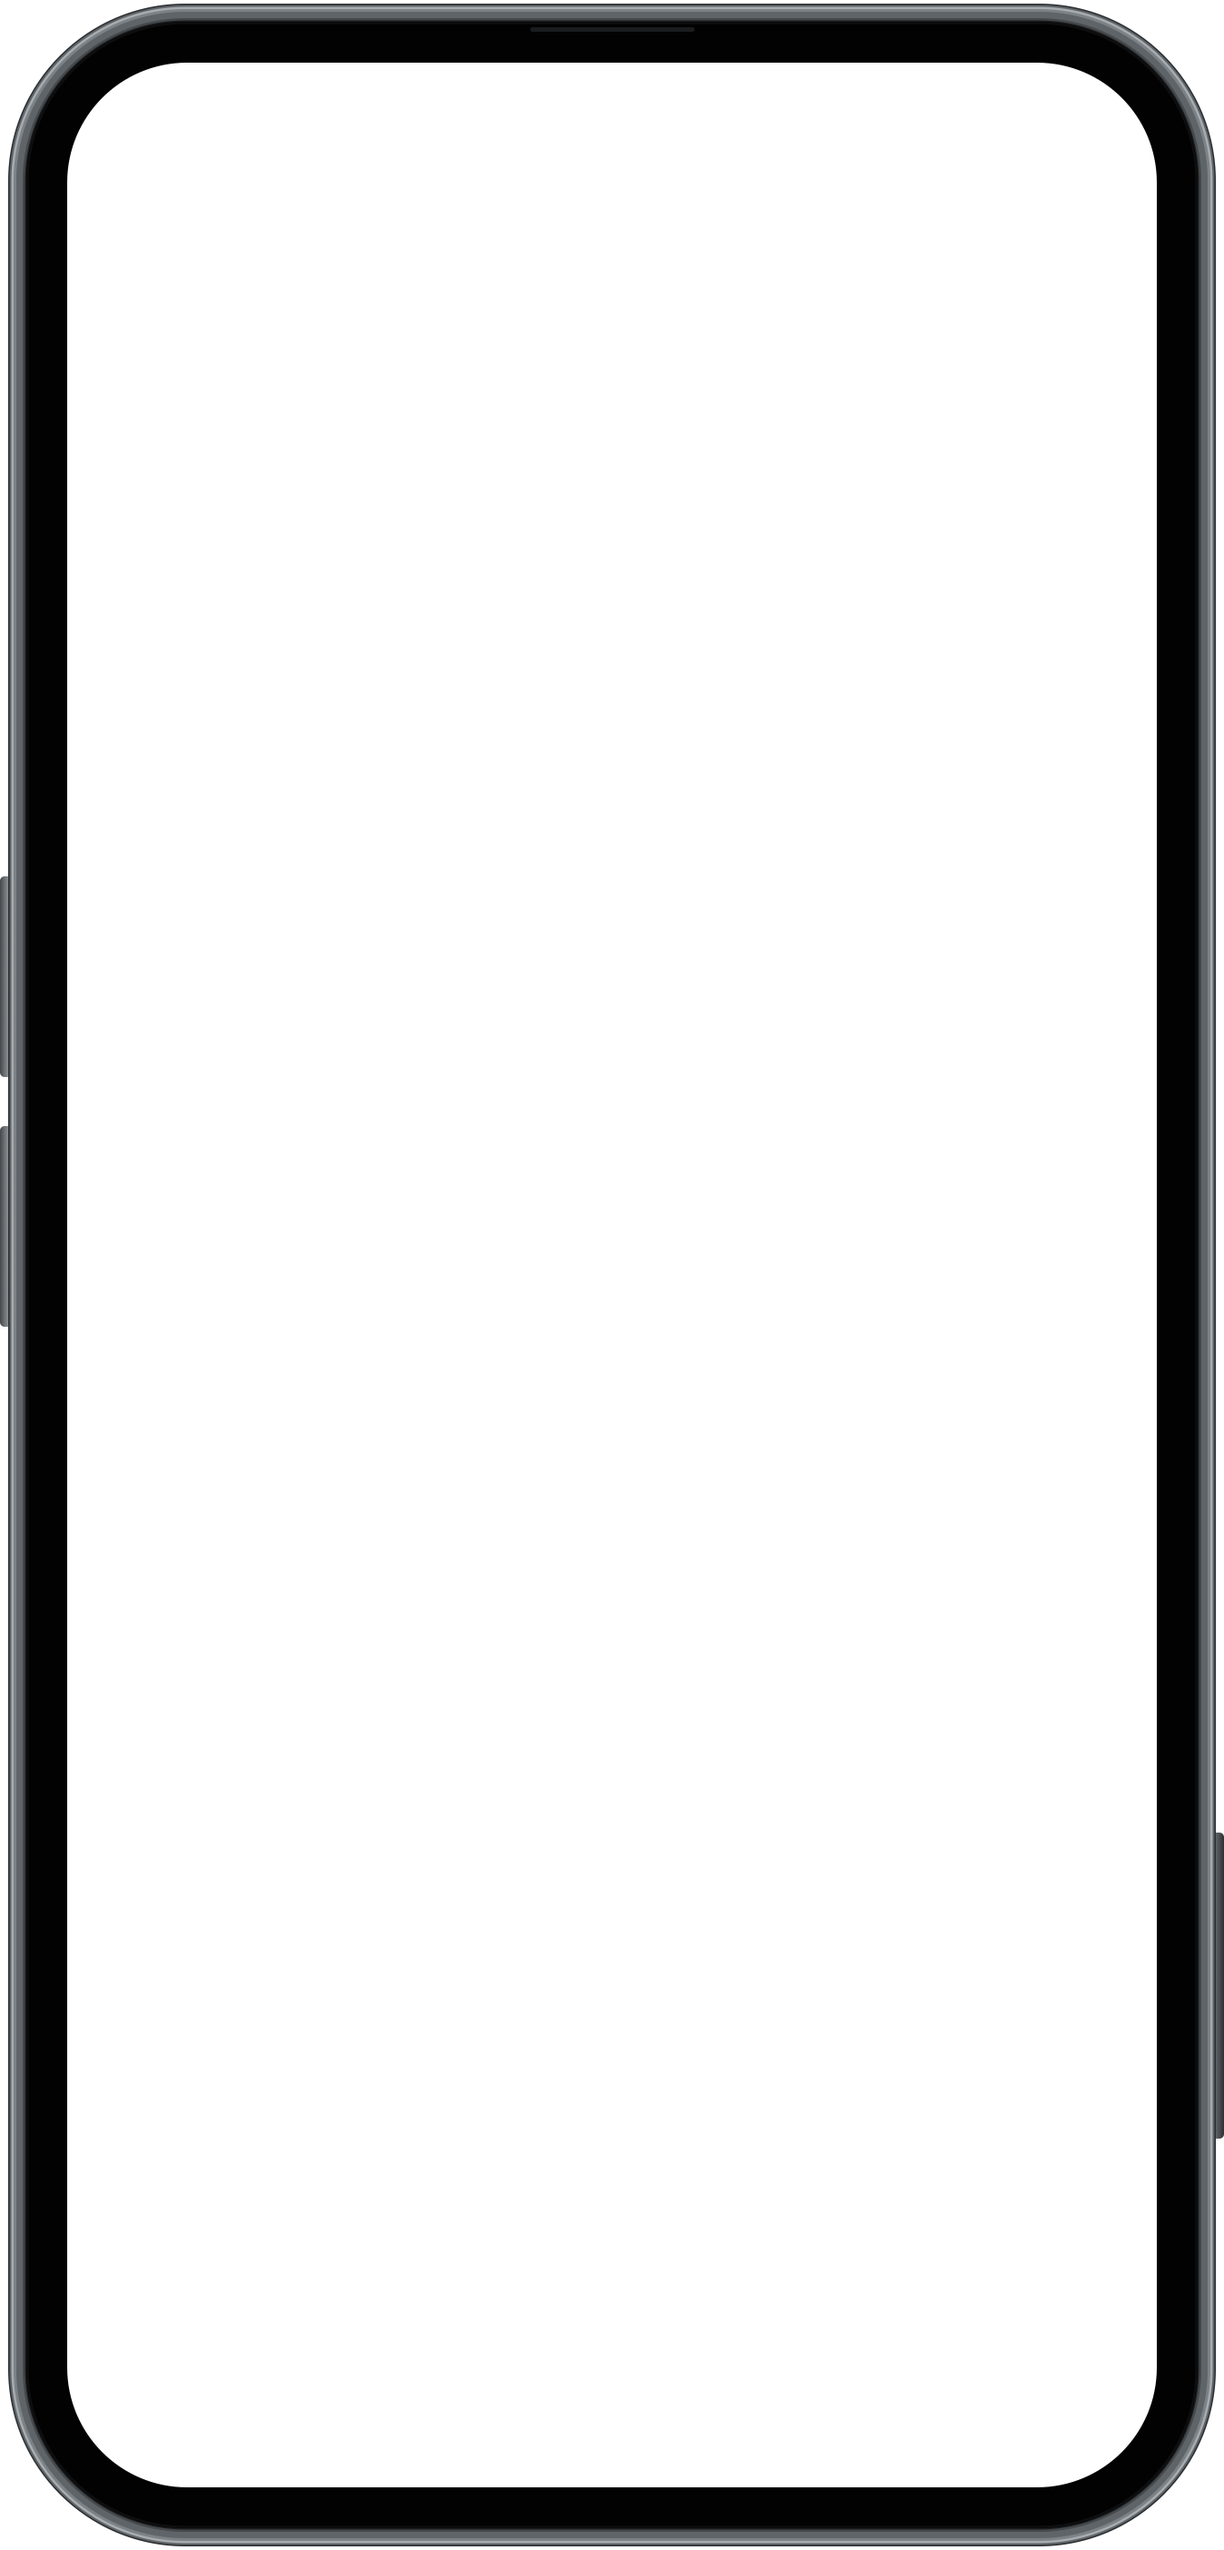
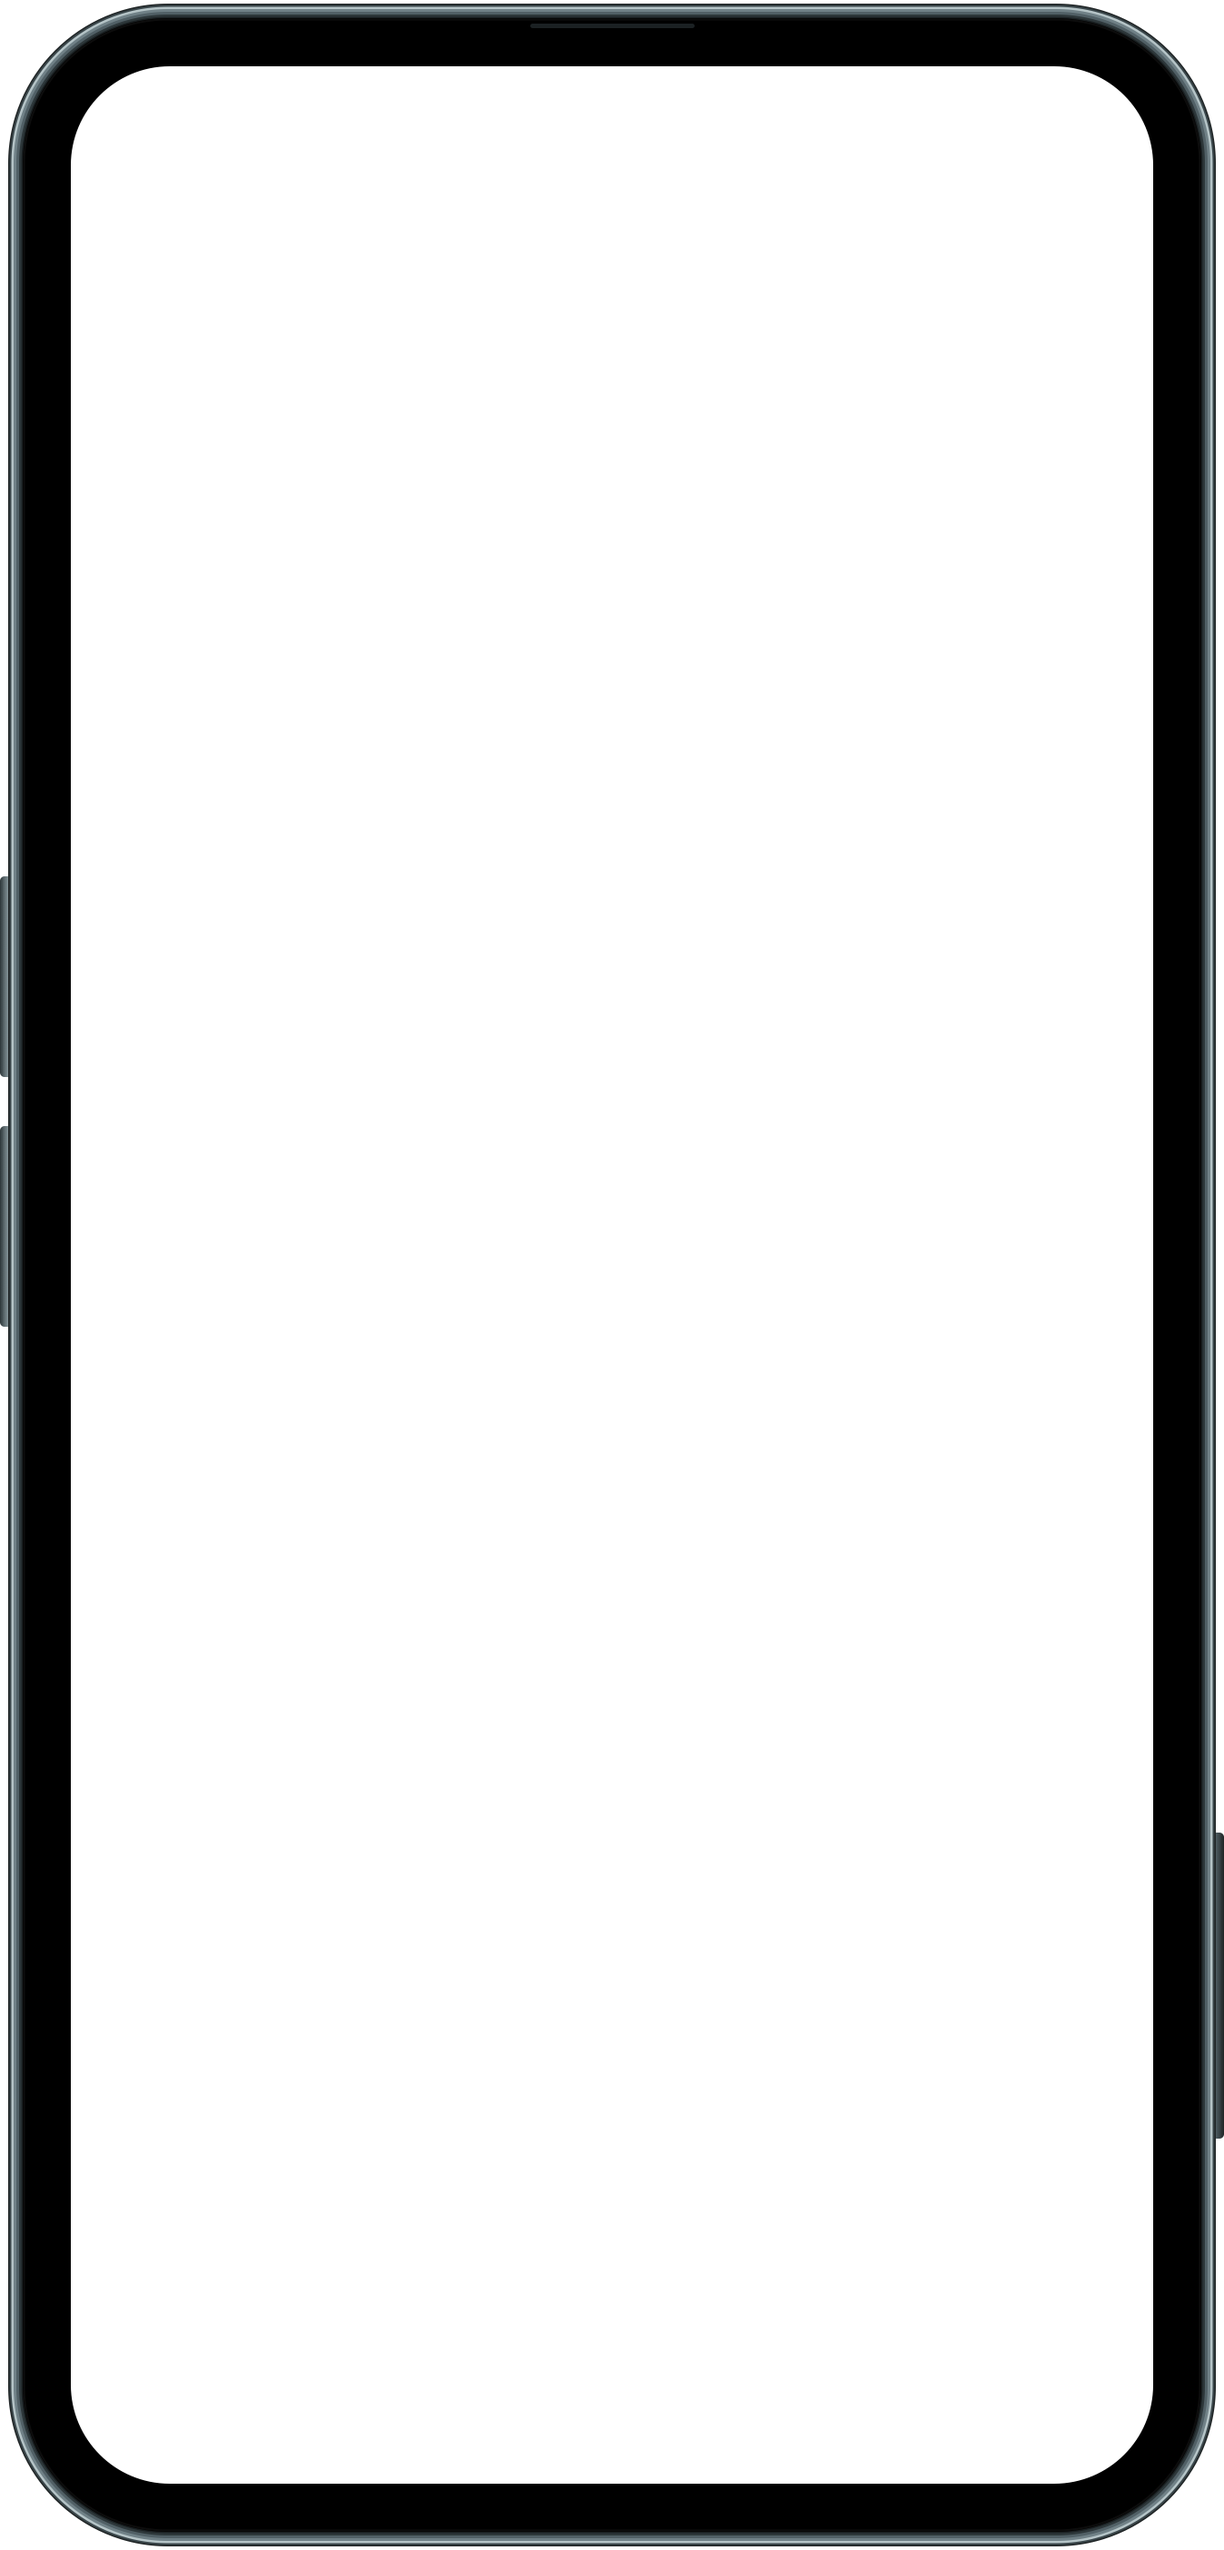
Skin: fix square corners over the rounded screen, real Seeker colors
The emulator draws the display rectangle over the frame, so the rounded
metal corners got black square notches in every app (status bar looked off).
- mask.png repaints the phone body in its corners (shared drawing code)
- pure black glass that runs under the display edge
- corner radius 9.7 mm so frame and display layers only meet black-on-black
  (the emulator scales the two layers differently; window.scale is ignored)
- frame colors sampled from the official renders (cool slate metal)
- make-preview.swift draws layers in the emulator's order
- docs 11, decision D20, log

Changed region(s): [[0.0, 0.0, 0.997, 1.0]]

diff --git a/profiles/seeker/skin/make-skin.swift b/profiles/seeker/skin/make-skin.swift
@@ -4,7 +4,7 @@
 //
 // Measurements (see docs/11-seeker-look.md):
 //   body 73.5 x 154.8 mm (official spec), display 1200x2670 @ 460 ppi = 66.3 x 147.4 mm
-//   corner radius ~10.8 mm, metal band ~1.1 mm + black bezel ~2.5 mm per side, buttons stick out ~0.5 mm
+//   corner radius 9.7 mm (render ~10.8, see below), metal band ~0.9 mm + black bezel ~2.7 mm per side, buttons stick out ~0.5 mm
 //   shading is symmetric so every side looks identical (no directional light)
 //   left side: two volume keys at 53.1-65.3 mm and 68.3-80.5 mm from the top
 //   right side: power / Seed Vault fingerprint key at 111.3-129.9 mm from the top
@@ -27,8 +27,13 @@ let W = bodyW + 2 * buttonOut, H = bodyH + 2 * padY
 let body = CGRect(x: buttonOut, y: padY, width: bodyW, height: bodyH)
 let screenX = body.minX + ((bodyW - screenW) / 2).rounded()
 let screenY = body.minY + ((bodyH - screenH) / 2).rounded()
-let bodyRadius = mm(10.8)
-let rim = mm(1.1)                               // visible metal band (front view)
+// Corner radius: the official render measures ~10.8 mm, but at that radius the metal reaches inside the
+// display's bounding rectangle. The emulator scales the display layer and the frame layer by slightly
+// different factors, so metal drawn there can never line up and leaves a 1-2 px step. With 9.7 mm and a
+// 0.9 mm metal band, the glass curve clears the display corner by 3 px and the layers only ever meet
+// black-on-black. Constraint: (R - border) * sqrt(2) <= R - rim - 3.
+let bodyRadius = mm(9.7)
+let rim = mm(0.9)                               // visible metal band (front view)
 let screenRadius = bodyRadius - (screenX - body.minX) + 2   // concentric with the body corner
 let cameraCenterY = mm(3.7)                                  // in screen coordinates
 let cameraR = mm(1.35)
@@ -59,59 +64,74 @@ func save(_ ctx: CGContext, _ name: String) {
     print("wrote \(url.path)")
 }
 
-// ---- back.png --------------------------------------------------------------------------------
-let back = context(W, H)
+// ---- the phone body (frame, keys, glass), drawn into any context ---------------------------------
+// Used twice: for back.png (behind the display) and for mask.png (on top of the display corners).
+// The Seeker's corners are so round that the metal reaches *inside* the display rectangle; the
+// emulator draws the display rectangle over back.png, so the mask has to repaint the frame there,
+// otherwise the corners show a black square notch.
 
-// Side keys (drawn first; the body covers their inner half). Metal like the frame.
-func key(_ x: CGFloat, _ fromMm: CGFloat, _ toMm: CGFloat, _ fill: CGGradient) {
-    let r = CGRect(x: x, y: body.minY + mm(fromMm), width: buttonOut + 10, height: mm(toMm) - mm(fromMm))
-    back.saveGState()
-    back.addPath(rr(r, 5)); back.clip()
-    back.drawLinearGradient(fill, start: CGPoint(x: r.minX, y: 0), end: CGPoint(x: r.maxX, y: 0), options: [])
-    back.restoreGState()
-}
-let metalKey = gradient([(0x45494C, 0), (0x8F9498, 0.5), (0x45494C, 1)])
-let vaultKey = gradient([(0x2E3134, 0), (0x62676B, 0.5), (0x2E3134, 1)])   // power / Seed Vault fingerprint key
-key(0, 53.1, 65.3, metalKey)                 // volume up (left)
-key(0, 68.3, 80.5, metalKey)                 // volume down (left)
-key(W - buttonOut - 10, 111.3, 129.9, vaultKey)   // power + fingerprint (right)
+let metalKey = gradient([(0x2D373A, 0), (0x8A9A9F, 0.5), (0x2D373A, 1)])
+let vaultKey = gradient([(0x1F2425, 0), (0x516066, 0.5), (0x1F2425, 1)])   // power / Seed Vault fingerprint key
 
 // Metal frame, shaded identically on every side: concentric bands from the outer edge inward
-// (dark outer lip -> bright polished chamfer -> brushed gray -> dark inner lip), so no side looks thicker.
+// (dark outer lip -> bright polished chamfer -> brushed -> dark inner lip), so no side looks thicker.
+// Colors sampled from Solana Mobile's official renders (median / percentiles of frame-edge and body
+// pixels): the Seeker's metal is a cool slate with a slight teal tint, not neutral gray.
 let bands: [(inset: CGFloat, hex: UInt32)] = [
-    (0, 0x2B2E31),            // outer lip
-    (1.5, 0x5E6367),
-    (3.5, 0xA7ACB0),          // polished chamfer highlight
-    (6, 0x7D8286),
-    (9, 0x5F6468),            // brushed band
-    (rim - 4, 0x45494C),
-    (rim - 1.5, 0x1A1C1E),    // inner lip against the glass
+    (0, 0x1F2425),            // outer lip (edge p25)
+    (1.5, 0x3A464A),
+    (3.5, 0xB5C4C7),          // polished chamfer highlight (edge p95)
+    (6, 0x708187),            // (body p90)
+    (9, 0x516066),            // brushed band (edge p75)
+    (rim - 4, 0x2D373A),      // (edge median)
+    (rim - 1.5, 0x1B2123),    // inner lip against the glass (body p10)
 ]
-for band in bands {
-    back.setFillColor(color(band.hex))
-    back.addPath(rr(body.insetBy(dx: band.inset, dy: band.inset), bodyRadius - band.inset)); back.fillPath()
+let glass = body.insetBy(dx: rim, dy: rim)
+
+func drawBody(_ g: CGContext) {
+    // Side keys first; the body covers their inner half.
+    func key(_ x: CGFloat, _ fromMm: CGFloat, _ toMm: CGFloat, _ fill: CGGradient) {
+        let r = CGRect(x: x, y: body.minY + mm(fromMm), width: buttonOut + 10, height: mm(toMm) - mm(fromMm))
+        g.saveGState()
+        g.addPath(rr(r, 5)); g.clip()
+        g.drawLinearGradient(fill, start: CGPoint(x: r.minX, y: 0), end: CGPoint(x: r.maxX, y: 0), options: [])
+        g.restoreGState()
+    }
+    key(0, 53.1, 65.3, metalKey)                       // volume up (left)
+    key(0, 68.3, 80.5, metalKey)                       // volume down (left)
+    key(W - buttonOut - 10, 111.3, 129.9, vaultKey)    // power + fingerprint (right)
+
+    for band in bands {
+        g.setFillColor(color(band.hex))
+        g.addPath(rr(body.insetBy(dx: band.inset, dy: band.inset), bodyRadius - band.inset)); g.fillPath()
+    }
+    // Black glass. Pure black, the same as the mask's black.
+    g.setFillColor(color(0x000000))
+    g.addPath(rr(glass, bodyRadius - rim)); g.fillPath()
+    // Faint, even glass-edge reflection.
+    g.setStrokeColor(color(0xFFFFFF, 0.05)); g.setLineWidth(2)
+    g.addPath(rr(glass.insetBy(dx: 1.5, dy: 1.5), bodyRadius - rim - 1.5)); g.strokePath()
+    // Earpiece slit in the top bezel.
+    g.setFillColor(color(0x1B2123))
+    g.addPath(rr(CGRect(x: W / 2 - mm(5), y: body.minY + rim + 6, width: mm(10), height: 5), 2.5)); g.fillPath()
 }
 
-// Black glass (front), flat to the rim.
-let glass = body.insetBy(dx: rim, dy: rim)
-back.setFillColor(color(0x020203))
-back.addPath(rr(glass, bodyRadius - rim)); back.fillPath()
-// Faint, even glass-edge reflection.
-back.setStrokeColor(color(0xFFFFFF, 0.05)); back.setLineWidth(2)
-back.addPath(rr(glass.insetBy(dx: 1.5, dy: 1.5), bodyRadius - rim - 1.5)); back.strokePath()
-
-// Earpiece slit in the top bezel.
-back.setFillColor(color(0x1A1C1E))
-back.addPath(rr(CGRect(x: W / 2 - mm(5), y: body.minY + rim + 6, width: mm(10), height: 5), 2.5)); back.fillPath()
-
-// Transparent display area.
+// ---- back.png --------------------------------------------------------------------------------
+let back = context(W, H)
+drawBody(back)
+// Transparent display area, inset so the glass runs a few px *under* the display edge: when the
+// emulator scales the window it smooths the display's border pixels, which must blend black-on-black.
+let underlap: CGFloat = 4
 back.setBlendMode(.clear)
-back.addPath(rr(CGRect(x: screenX, y: screenY, width: screenW, height: screenH), screenRadius)); back.fillPath()
+back.addPath(rr(CGRect(x: screenX, y: screenY, width: screenW, height: screenH).insetBy(dx: underlap, dy: underlap), screenRadius - underlap)); back.fillPath()
 save(back, "back.png")
 
-// ---- mask.png: display-sized; opaque = covers the display (corners, camera) -------------------
+// ---- mask.png: display-sized, drawn over the display. Opaque = the phone (frame + glass) shows. ---
 let mask = context(screenW, screenH)
-mask.setFillColor(color(0x000000)); mask.fill(CGRect(x: 0, y: 0, width: screenW, height: screenH))
+mask.saveGState()
+mask.translateBy(x: -screenX, y: -screenY)   // same coordinates as back.png
+drawBody(mask)
+mask.restoreGState()
 mask.setBlendMode(.clear)
 mask.addPath(rr(CGRect(x: 0, y: 0, width: screenW, height: screenH), screenRadius)); mask.fillPath()
 mask.setBlendMode(.normal)

diff --git a/profiles/seeker/skin/make-preview.swift b/profiles/seeker/skin/make-preview.swift
@@ -18,9 +18,10 @@ let ctx = CGContext(data: nil, width: W, height: H, bitsPerComponent: 8, bytesPe
                     space: CGColorSpace(name: CGColorSpace.sRGB)!, bitmapInfo: CGImageAlphaInfo.premultipliedLast.rawValue)!
 let sw = CGFloat(screen.width), sh = CGFloat(screen.height)
 let screenRect = CGRect(x: dx, y: CGFloat(H) - dy - sh, width: sw, height: sh) // CG origin bottom-left
+// Same order as the emulator: background (back.png), then the display, then the foreground mask.
+ctx.draw(back, in: CGRect(x: 0, y: 0, width: W, height: H))
 ctx.draw(screen, in: screenRect)
 ctx.draw(mask, in: screenRect)
-ctx.draw(back, in: CGRect(x: 0, y: 0, width: W, height: H))
 let dest = CGImageDestinationCreateWithURL(out as CFURL, UTType.png.identifier as CFString, 1, nil)!
 CGImageDestinationAddImage(dest, ctx.makeImage()!, nil)
 CGImageDestinationFinalize(dest)

diff --git a/docs/11-seeker-look.md b/docs/11-seeker-look.md
@@ -18,22 +18,30 @@ Files: [profiles/seeker/skin/](../profiles/seeker/skin/)
 |---|---|---|
 | Body | 73.5 × 154.8 × 9.3 mm | official spec, solanamobile.com/seeker |
 | Display | 1200 × 2670 @ 460 ppi = 66.3 × 147.4 mm | official spec |
-| Corner radius | ~10.8 mm | measured from Solana Mobile's official front render (pixel scan) |
+| Corner radius | 9.7 mm in the skin (the render measures ~10.8 mm, see "Square corners bug") | official front render (pixel scan) |
 | Volume keys | **left** side, 53.1–65.3 mm and 68.3–80.5 mm from the top | measured from the official front render |
 | Power / **Seed Vault fingerprint key** | **right** side, 111.3–129.9 mm from the top | official render (front) + back render (key next to the "Seed Vault" panel) |
 | Front camera | small **centered punch hole** near the top | hands-on review photo (Decrypt) |
-| Frame | gray metal, thin even black bezels | official renders + review photo |
+| Frame colors | cool slate metal: `#1F2425` lip, `#B5C4C7` chamfer highlight, `#516066` brushed, `#2D373A` mid, `#1B2123` inner lip | percentiles of frame/body pixels in the official back render |
 
 Scale: 18.1 px/mm (1200 px = 66.3 mm). Skin: 1348 × 2808, body 1330 × 2800, display at (74, 69).
+
+### Square corners bug (fixed 2026-10-19)
+**Symptom:** in every app the status bar looked "off": square corners poked into the rounded screen, and a faint square outline showed at all 4 corners.
+**Cause:** the emulator draws `back.png`, then the display **rectangle**, then `mask.png` on top. With an ~11 mm corner the metal curve reaches *inside* the display rectangle, so the display (and the mask's black corners) painted over the frame and left black square notches.
+**Fixes:**
+1. `mask.png` now repaints the phone body (frame + glass) in its corners, from the same drawing code as `back.png`.
+2. Glass is pure `#000000`, the same as the mask, and runs 4 px *under* the display edge so smoothed edge pixels blend black-on-black.
+3. The emulator scales the display layer and the frame layer by slightly different factors (e.g. 56.25% vs 55.98%; the `window.scale` setting is ignored), so metal drawn in both layers can never line up exactly. The corner radius is therefore **9.7 mm** with a 0.9 mm metal band: the glass curve clears the display-rectangle corner by 3 px (`(R − 65)·√2 ≤ R − rim − 3`), so the layers only meet black-on-black at any window size.
+4. `make-preview.swift` now draws layers in the emulator's order (back → display → mask). The old order (back on top) hid this bug.
+
+Verified live: all 4 corners on a white, scrolled Settings screen and in Fake dApp's dark status bar. No notches.
 
 ### Pixel-perfect symmetry (verified)
 `swift profiles/seeker/skin/check-skin.swift profiles/seeker/skin/back.png`
 ```
-top          metal 23  black 42
-bottom       metal 23  black 42
-left         metal 23  black 42
-right        metal 23  black 42
-TL/TR/BL/BR diagonal: metal 16  black 31   (identical; concentric corners)
+top / bottom / left / right   metal 16  black 53   (black includes the 4 px underlap)
+TL / TR / BL / BR diagonal    metal 13  black 37   (identical; concentric corners)
 ```
 - The body height was set to `display + (bodyW − displayW)` (154.7 mm instead of 154.8), so every side is **exactly** the same width. The 0.1 mm difference is invisible, while a 1 px difference was visible.
 - The frame shading is **symmetric**: concentric bands (dark lip → polished chamfer → brushed gray → inner lip), no directional light. The first version had a top-left light, which made the sides *look* different widths.

diff --git a/docs/decisions.md b/docs/decisions.md
@@ -80,3 +80,7 @@ Newest at the bottom. Each entry says what was decided, and why.
 ### D19 (2026-10-19): Theme via Android settings + a wallpaper activity in the SMS Test Wallet
 - **Decided:** dark mode and Material You palette (`#9945FF`) through `cmd uimode` / `theme_customization_overlay_packages`. The wallpaper is set by `ThemeActivity` in the SMS Test Wallet, because Android has no shell command for it.
 - **Why:** no custom system image needed. Everything is reversible, and `sms setup` applies it.
+
+### D20 (2026-10-19): Corner radius 9.7 mm so the emulator's layers can't misalign
+- **Decided:** body corner 9.7 mm (render ~10.8), metal band 0.9 mm. The mask repaints the body in its corners, the glass is pure black and runs under the display edge, and the colors are sampled from the official renders.
+- **Why:** the emulator draws the display rectangle over the frame and scales those two layers differently. Any metal inside the display rectangle showed as square notches or steps. At 9.7 mm the metal never enters it, which is the only geometry that looks right at every window size.

diff --git a/docs/log.md b/docs/log.md
@@ -34,3 +34,4 @@
 - **Theme:** dark mode, Solana-purple system palette, Seeker-style wallpaper (via `ThemeActivity`). All applied by `sms setup`.
 - **Localnet sign-and-send ✅:** airdrop + sign-and-send through SMS Test Wallet → Seed Vault → Surfpool, confirmed `Status: Ok`. **v0.1 goal reached.**
 - Details: [10-sms-test-wallet.md](10-sms-test-wallet.md), [11-seeker-look.md](11-seeker-look.md).
+- **Fixed "square corners / status bar looks off"** (user report): the display rectangle was painted over the rounded metal corners. Mask now repaints the body, glass is pure black with underlap, corner radius 9.7 mm so frame and display layers only meet black-on-black (D20). Colors re-sampled from official renders (cool slate metal). Verified live in white and dark apps.
